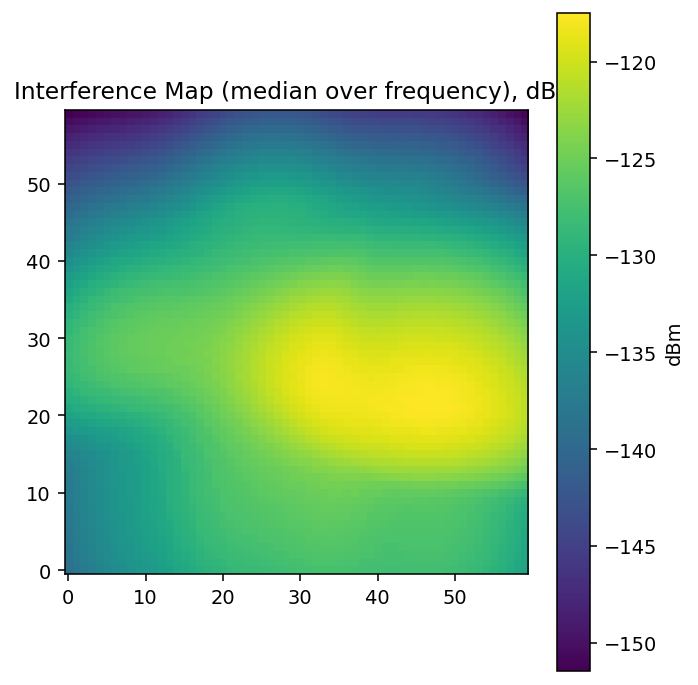
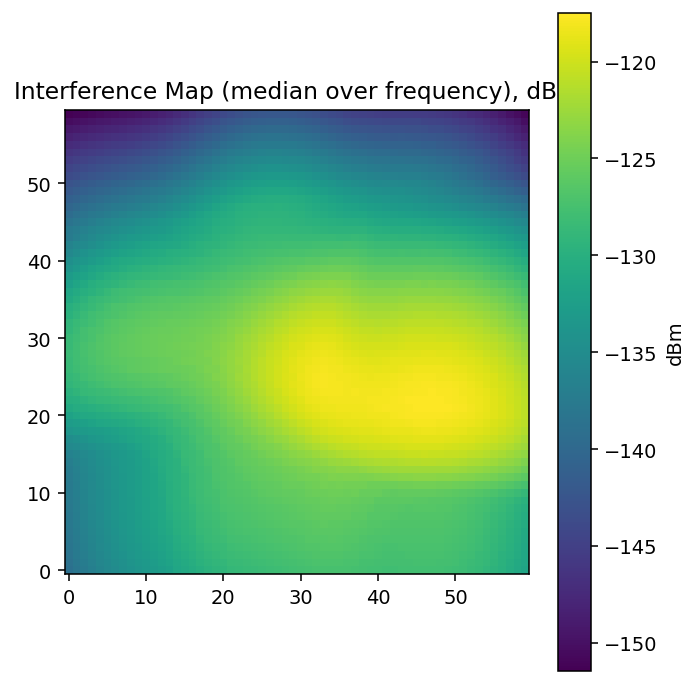
消除“基线偏乐观、RadioMap吃亏”的结构性偏差:(基线吞吐计算改为按PRB真实SNR/SE累计 & 宽带CQI统计更保守)

diff --git a/code/main.py b/code/main.py
@@ -446,8 +446,9 @@ def compute_caps(R_xyz_dbm: np.ndarray,
     snr_lin = 10.0 ** (gamma_db / 10.0)
     cap = np.log2(1.0 + snr_lin)                                  # [UE,Z]
 
-    # Wideband (3GPP-like) interference (median across subbands)
-    I_wb_mw = np.median(I_total_mw, axis=1)                       # [UE]
+    # Wideband (3GPP-like) interference. Use mean across subbands for a more
+    # conservative and realistic CQI statistic vs median.
+    I_wb_mw = np.mean(I_total_mw, axis=1)                          # [UE]
     I_wb_dbm = mw_to_dbm(I_wb_mw)
     gamma_db_wb = P_rx_dbm - I_wb_dbm
     snr_lin_wb = 10.0 ** (gamma_db_wb / 10.0)
@@ -465,7 +466,10 @@ def pf_schedule_baseline(cap_wb: np.ndarray,
                          power_split: bool = False,
                          mcs_params: Optional[Dict] = None,
                          se_metric_time: Optional[np.ndarray] = None,
-                         snr_lin_wb_time: Optional[np.ndarray] = None) -> float:
+                         snr_lin_wb_time: Optional[np.ndarray] = None,
+                         snr_lin_prb: Optional[np.ndarray] = None,
+                         cap_prb: Optional[np.ndarray] = None,
+                         snr_lin_time_prb: Optional[np.ndarray] = None) -> float:
     """
     3GPP-like baseline: proportional fair with wideband CQI (same cap on every PRB).
     To avoid one-UE monopolization, assign PRBs in each TTI across the top sqrt(N) UEs 
@@ -492,24 +496,54 @@ def pf_schedule_baseline(cap_wb: np.ndarray,
         else:
             selected = np.argsort(-metric)
 
-        alloc_counts = np.full(U_select, Z // U_select)
-        remainder = Z - alloc_counts.sum()
+        # Determine number of PRBs per selected UE
+        alloc_counts = np.full(U_select, Z // U_select, dtype=int)
+        remainder = Z - int(alloc_counts.sum())
         if remainder > 0:
             alloc_counts[:remainder] += 1
 
+        # Build per-PRB winners by round-robin across selected set (no subband awareness)
+        winners = np.full(Z, -1, dtype=int)
+        rem = alloc_counts.copy()
+        k_ptr = 0
+        for z in range(Z):
+            # find next selected UE with remaining quota
+            for _ in range(U_select):
+                if rem[k_ptr] > 0:
+                    winners[z] = selected[k_ptr]
+                    rem[k_ptr] -= 1
+                    k_ptr = (k_ptr + 1) % U_select
+                    break
+                k_ptr = (k_ptr + 1) % U_select
+            if winners[z] < 0:
+                winners[z] = selected[0]
+
         thr_i = np.zeros(N_UE)
-        for k_idx, ue in enumerate(selected):
-            k_prb = int(alloc_counts[k_idx])
-            if k_prb <= 0:
-                continue
-            # Effective SNR per PRB with power split
-            if snr_lin_wb is not None or snr_lin_wb_time is not None:
-                snr_base = snr_lin_wb_time[t_idx, ue] if snr_lin_wb_time is not None else snr_lin_wb[ue]
-                se_per_prb = se_from_snr_with_split(snr_base, k_prb if power_split else 1, use_mcs, mcs_params=mcs_params)
+        # Count PRBs per UE for power split
+        if power_split:
+            counts = np.bincount(winners, minlength=N_UE)
+        else:
+            counts = np.ones(N_UE, dtype=int)
+        for z in range(Z):
+            ue = winners[z]
+            k_prb = int(counts[ue]) if power_split else 1
+            # Prefer per-PRB SNR/SE if available for fairness
+            if (snr_lin_prb is not None) or (snr_lin_time_prb is not None):
+                if snr_lin_time_prb is not None:
+                    snr_base = snr_lin_time_prb[t_idx, ue, z]
+                else:
+                    snr_base = snr_lin_prb[ue, z]
+                se = se_from_snr_with_split(snr_base, k_prb if power_split else 1, use_mcs, mcs_params=mcs_params)
+            elif cap_prb is not None and (not use_mcs):
+                se = se_from_cap_shannon_with_split(cap_prb[ue, z], k_prb if power_split else 1)
             else:
-                # Fallback (Shannon-only): adjust wideband SE by power split
-                se_per_prb = se_from_cap_shannon_with_split(metric_se_t[ue], k_prb if power_split else 1)
-            thr_i[ue] = k_prb * se_per_prb * overhead_eff
+                # Fallback to wideband
+                if (snr_lin_wb is not None) or (snr_lin_wb_time is not None):
+                    snr_base = snr_lin_wb_time[t_idx, ue] if snr_lin_wb_time is not None else snr_lin_wb[ue]
+                    se = se_from_snr_with_split(snr_base, k_prb if power_split else 1, use_mcs, mcs_params=mcs_params)
+                else:
+                    se = se_from_cap_shannon_with_split(metric_se_t[ue], k_prb if power_split else 1)
+            thr_i[ue] += se * overhead_eff
         sum_rate += thr_i.sum()
         Rbar = (1 - beta) * Rbar + beta * thr_i
 
@@ -666,7 +700,10 @@ def run_once(config: Dict) -> Dict:
             power_split=config.get("power_split", False),
             mcs_params=mcs_params,
             se_metric_time=se_time_wb,
-            snr_lin_wb_time=time_series["snr_wb_time"]
+            snr_lin_wb_time=time_series["snr_wb_time"],
+            snr_lin_prb=snr_lin,
+            cap_prb=cap,
+            snr_lin_time_prb=time_series["snr_time"]
         )
         map_se = pf_schedule_radiomap(
             cap, T, beta=config["pf_beta"],
@@ -688,6 +725,8 @@ def run_once(config: Dict) -> Dict:
             use_mcs=config.get("use_mcs", False),
             power_split=config.get("power_split", False),
             mcs_params=mcs_params,
+            snr_lin_prb=snr_lin,
+            cap_prb=cap,
         )
         map_se = pf_schedule_radiomap(
             cap, T, beta=config["pf_beta"],

diff --git a/code/config.py b/code/config.py
@@ -44,7 +44,7 @@ CONFIG = {
     "csi_olla_offset_db": 0.0,      # OLLA offset (dB)
     "csi_delay_ttis": 0,            # CSI report delay (TTIs)
     "power_split": True,            # per-UE PRB power split
-    "max_prbs_per_ue": 12,          # cap per UE per TTI (keeps allocations phone-like)
+    "max_prbs_per_ue": 9,           # cap per UE per TTI (~Z/sqrt(N)), mitigates power-split loss
 
     # Uplink fractional open-loop power control (TS 38.213)
     "enable_power_control": True,
